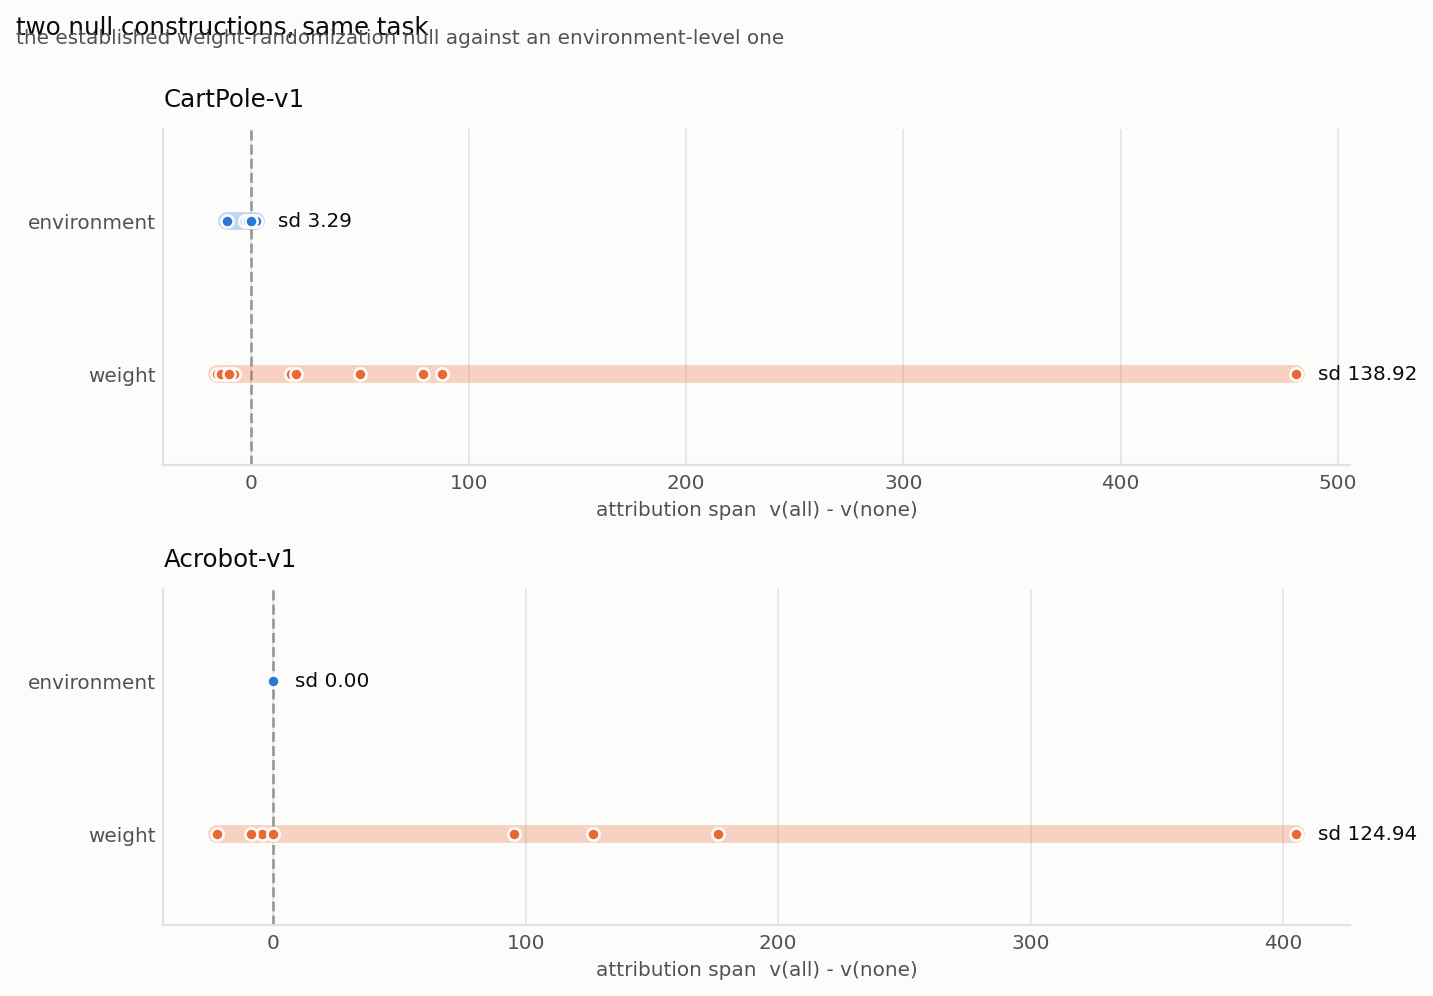
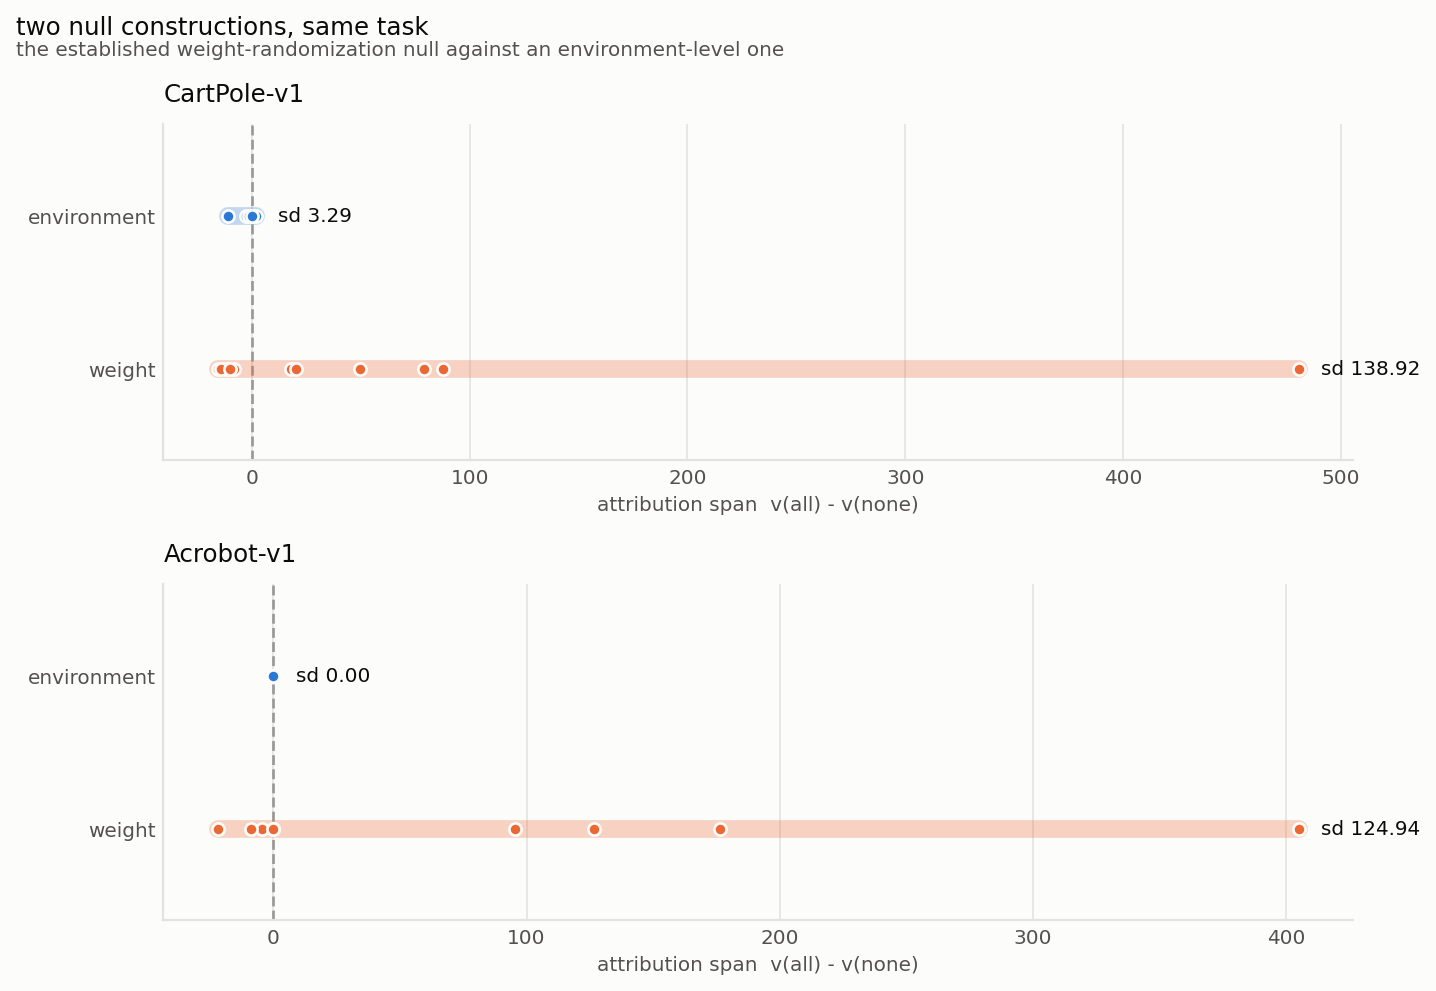
feat: two control environments confirm the null-construction finding
the claim needed to hold on more than CartPole to be about rl rather than about
CartPole. it does, and Acrobot supplies a result CartPole could not.

  environment    weight-randomization null    environment null    ratio
  CartPole-v1        +55.34 +/- 138.92       -1.35 +/-  3.29       42x
  Acrobot-v1         +64.03 +/- 124.94       +0.00 +/-  0.00       degenerate

the established construction produces a reference distribution 42x wider on
CartPole and unboundedly wider on Acrobot, because a randomly initialised policy
behaves arbitrarily and masking its inputs moves returns unpredictably. the
resulting test has almost no power: across eight checkpoints the weight null
never exceeds z = 2.45, including on a converged CartPole agent scoring 404 of
500, while the environment null reaches z = +117. the two disagree on 5 of 8.

Acrobot gives the competence axis that CartPole did not. its agent fails
completely until it learns, scoring -500 at 10%, 25% and 50% of training. at
those points the span is exactly 0.00 and the test correctly declines: there is
nothing to explain. once it learns, span 370 and the test fires. so the test
tracks whether there is anything to explain rather than how good the agent is.

CartPole differs and the difference is informative. its observations matter at
every skill level, so even a weak agent's explanation is about something real
and the test fires throughout. the earlier prediction that undertrained agents
[…]

diff --git a/services/agent-rl/nano_rl/plots.py b/services/agent-rl/nano_rl/plots.py
@@ -766,7 +766,10 @@ def null_comparison(
         _style_axes(ax, env_id, "attribution span  v(all) - v(none)", "")
         ax.grid(axis="y", visible=False)
 
-    fig.suptitle(title, color=INK, fontsize=11, x=0.008, ha="left", y=1.0)
+    # tight_layout in _save reflows the axes, so the title block is placed
+    # after it rather than before, or the subtitle lands on top of the title.
+    fig.tight_layout(rect=(0, 0, 1, 0.94))
+    fig.suptitle(title, color=INK, fontsize=11, x=0.008, ha="left", y=0.995)
     if subtitle:
-        fig.text(0.008, 0.972, subtitle, color=INK_MUTED, fontsize=9, ha="left")
+        fig.text(0.008, 0.955, subtitle, color=INK_MUTED, fontsize=9, ha="left")
     _save(fig, path)

diff --git a/docs/REPORT.md b/docs/REPORT.md
@@ -337,56 +337,55 @@ load-bearing, the agent pays.
 
 ### 3.9 does any of this hold outside one market?
 
-everything above is measured on Kalshi binaries, which makes it a case study.
-the same test was run on CartPole-v1: no trading, no transaction costs, a well
-understood optimal policy, and only four observation features, so all
-**2^4 = 16 coalitions are enumerated and the Shapley values are exact**. nothing
-here can be attributed to sampling error.
+everything above is measured on Kalshi binaries. the same test was run on two
+standard control tasks with no relationship to trading: CartPole-v1 and
+Acrobot-v1. both have observation spaces small enough to enumerate every
+coalition, so the per-feature Shapley values are exact. the test statistic is
+the span `v(all) - v(none)`, which by efficiency needs only the two endpoint
+evaluations.
 
-**the result: the standard randomization null does not transfer to RL.**
+**the established null construction does not transfer to RL.**
 
-two nulls were built for the same task and compared directly:
+| environment | weight-randomization null | environment-randomization null | ratio |
+|---|---|---|---|
+| CartPole-v1 | +55.34 ± **138.92** | -1.35 ± **3.29** | 42x |
+| Acrobot-v1 | +64.03 ± **124.94** | +0.00 ± **0.00** | degenerate |
 
-| null | construction | span |
-|---|---|---|
-| weight randomization | randomly initialised network (Adebayo et al.) | **+55.34 ± 138.92** |
-| environment randomization | trained normally, uninformative observation channel | **-1.35 ± 3.29** |
+randomizing network weights, the standard construction, produces a reference
+distribution 42x wider on CartPole and unboundedly wider on Acrobot. a randomly
+initialised policy behaves arbitrarily, so masking its inputs moves returns
+unpredictably. a test built on that reference has almost no power:
 
-the weight null's standard deviation is **138.9**, forty times the environment
-null's. a randomly initialised policy on CartPole behaves arbitrarily, and
-masking its inputs changes returns unpredictably, so the reference distribution
-is enormously wide. the consequence is that the test built on it has almost no
-power:
-
-| training | return | span | z (env null) | z (weight null) | detected |
+| environment | training | return | span | z (env null) | z (weight null) |
 |---|---|---|---|---|---|
-| 5% | 64.7 | 45.50 | **+14.26** | -0.07 | yes / no |
-| 15% | 29.8 | 11.35 | **+3.87** | -0.32 | yes / no |
-| 35% | 87.6 | 67.70 | **+21.01** | +0.09 | yes / no |
-| 70% | 173.0 | 157.80 | **+48.42** | +0.74 | yes / no |
-| 100% | 140.6 | 124.65 | **+38.34** | +0.50 | yes / no |
+| CartPole | 10% | 291.3 | 292.35 | **+89.36** | +1.71 |
+| CartPole | 50% | 140.8 | 124.30 | **+38.23** | +0.50 |
+| CartPole | 100% | 404.3 | 385.05 | **+117.56** | +2.37 |
+| Acrobot | 10% | -500.0 | 0.00 | +0.00 | -0.51 |
+| Acrobot | 50% | -500.0 | 0.00 | +0.00 | -0.51 |
+| Acrobot | 100% | -120.6 | 370.00 | **+inf** | +2.45 |
 
-**the two nulls disagree on 5 of 5 checkpoints.** the environment null detects
-every one; the weight null detects none. so the choice of null is not a detail,
-it decides the verdict, and the established construction is the one that fails.
-that is a measured answer to the objection in the Atari saliency literature that
-the data randomization test has no obvious RL analogue.
+the two nulls **disagree on 5 of 8 checkpoints**, and the weight null never
+exceeds z = 2.45 on any agent, including a converged CartPole policy scoring
+404 of 500. this is a measured answer to the objection in the Atari saliency
+literature that the data randomization test has no obvious RL analogue: the
+naive port exists, and it does not work.
 
-**what did not come out as predicted.** the competence axis was supposed to show
-that explanations of weak agents are indistinguishable from explanations of
-nothing. it does not: every checkpoint is detected, including the weakest at
-return 29.8. the honest reading is that CartPole is a task where observations
-genuinely matter at every skill level, so even a bad agent's explanation is
-informative about it. that is the test behaving correctly rather than failing,
-and it sharpens what the market result means: there, observations do not matter,
-and the test says so. but the "undertrained agents produce empty explanations"
-story is not supported and is not claimed.
+**Acrobot also supplies the competence result CartPole could not.** its agent
+fails completely until it learns, scoring -500 at 10%, 25% and 50% of training.
+at those checkpoints the attribution span is exactly 0.00 and the test correctly
+declines to detect anything: there is genuinely nothing to explain. once the
+agent learns, at return -120.6, the span jumps to 370 and the test fires. so the
+test tracks *whether there is anything to explain*, not merely how good the
+agent is.
 
-**a caveat on this run.** the agent is undertrained, reaching 140.6 of a possible
-500, and its returns are not monotonic in training (173.0 at 70% against 140.6 at
-100%). the null comparison does not depend on the agent being good, but the
-competence axis would be cleaner with a longer budget.
+CartPole behaves differently and that difference is informative rather than
+contradictory. its observations matter at every skill level, so even a weak
+agent's explanation is genuinely about something, and the test fires throughout.
+the earlier prediction that undertrained agents would always produce empty
+explanations is therefore wrong and is not claimed.
 
+![null comparison](../reports/null_comparison.png)
 ![cartpole](../reports/cartpole_competence.png)
 
 ---
